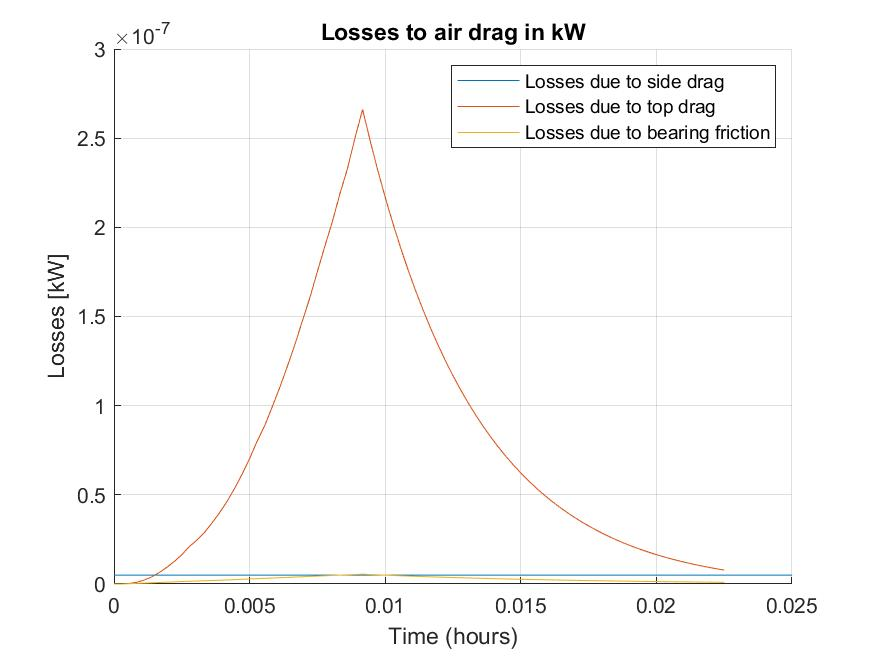
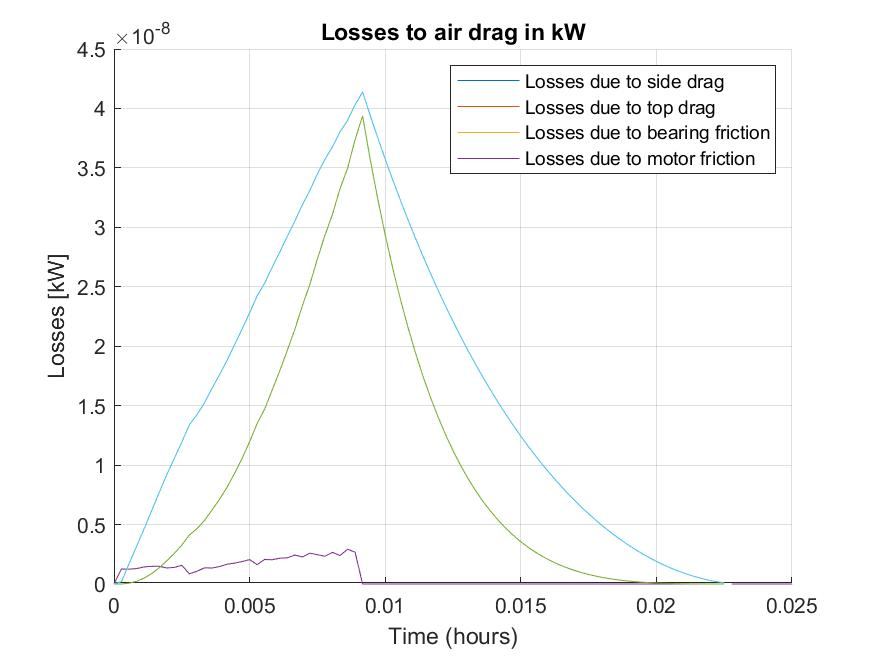
Fixed issues with the losses, calculated average speed

diff --git a/main_scale.m b/main_scale.m
@@ -29,14 +29,14 @@ for t=table_energy(1,:)
 %Incoming energy
     Column = Column + 1;                                                    %Table time step counter
      
-    flywheel_in = table_energy(2,Column)/1000;
-    flywheel_in_joule = flywheel_in*3.6e+3;
+    flywheel_in = table_energy(2,Column);
+    flywheel_in_joule = flywheel_in;
     
     %flywheel_losses = pi * flywheel_angular^2 * r_flywheel^4 * d_flywheel * rho_air;
-    side_drag = rho_air * A_sides * c_lin;
+    side_drag = rho_air * A_sides * c_lin * flywheel_in_joule;
     top_drag = 1/5 * pi * c_lin * rho_air * flywheel_angular^2 * r_disc^5;
-    bearing_loss = 1.05*10^(-4) * (m_rod + m_nuts + m_washers + m_disc) * (0.025/2) * flywheel_angular * 9,5493;
-    motor_loss = (flywheel_in_joule * 0.10);
+    bearing_loss = 1.05*10^(-4)* 0.002 * (m_rod + m_nuts + m_washers + m_disc) * 9.81 * (25/2) * flywheel_angular * 9,5493;
+    motor_loss = (flywheel_in_joule * 0.30);
     extra_loss = 0;
     
     flywheel_losses = side_drag + top_drag + bearing_loss + motor_loss + extra_loss;
